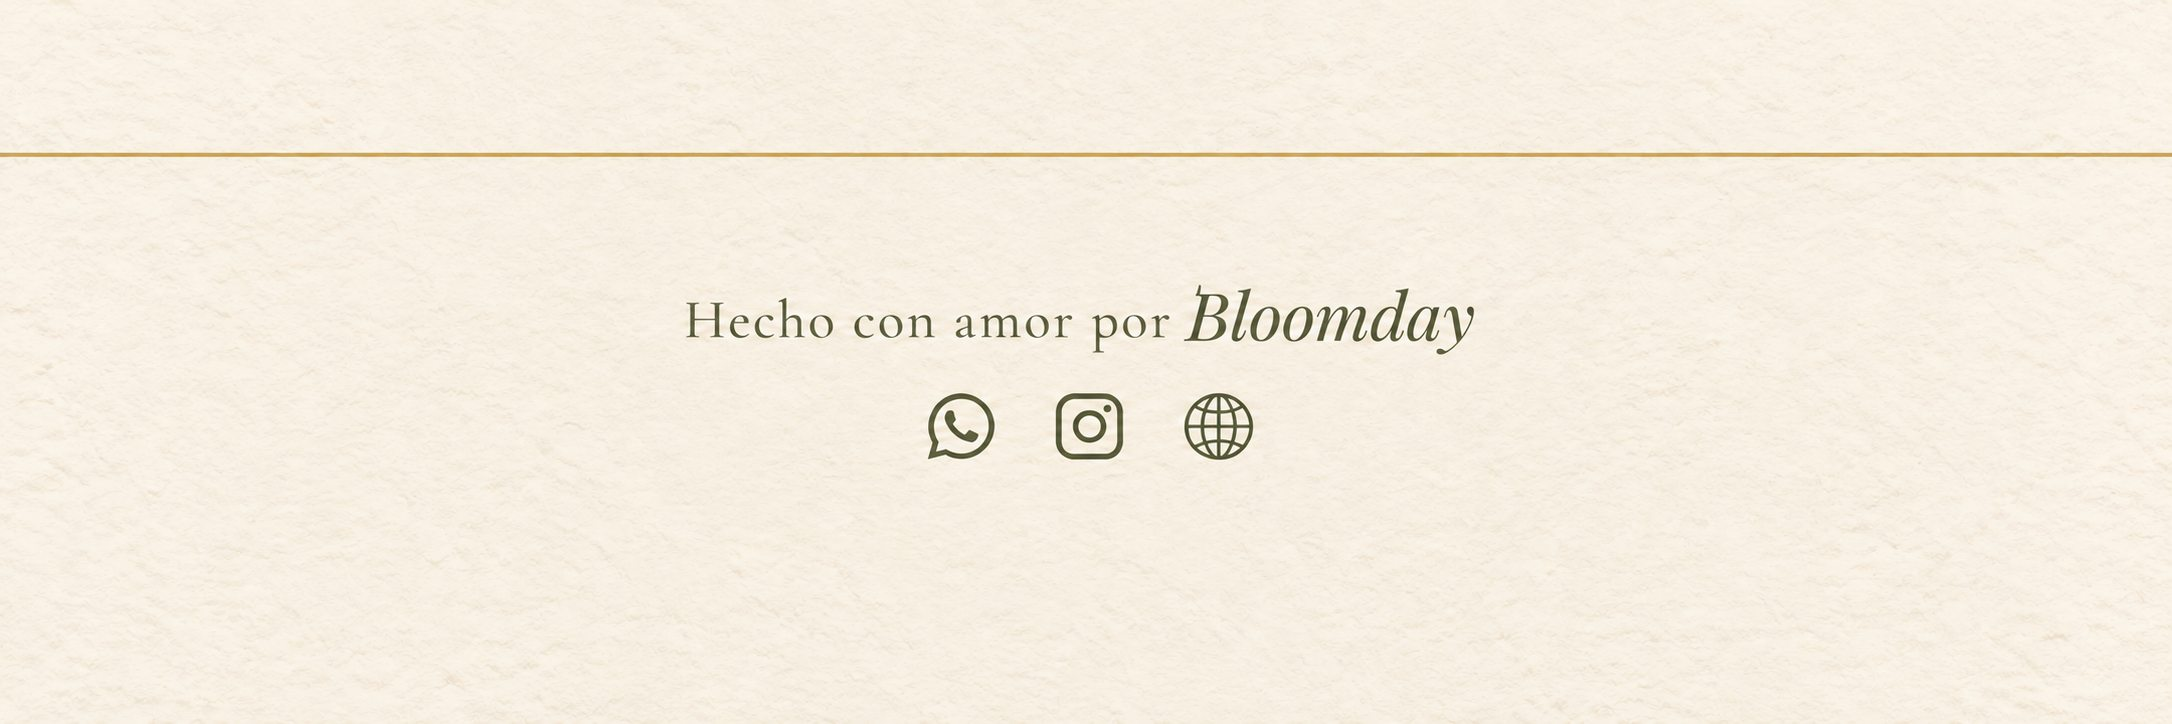
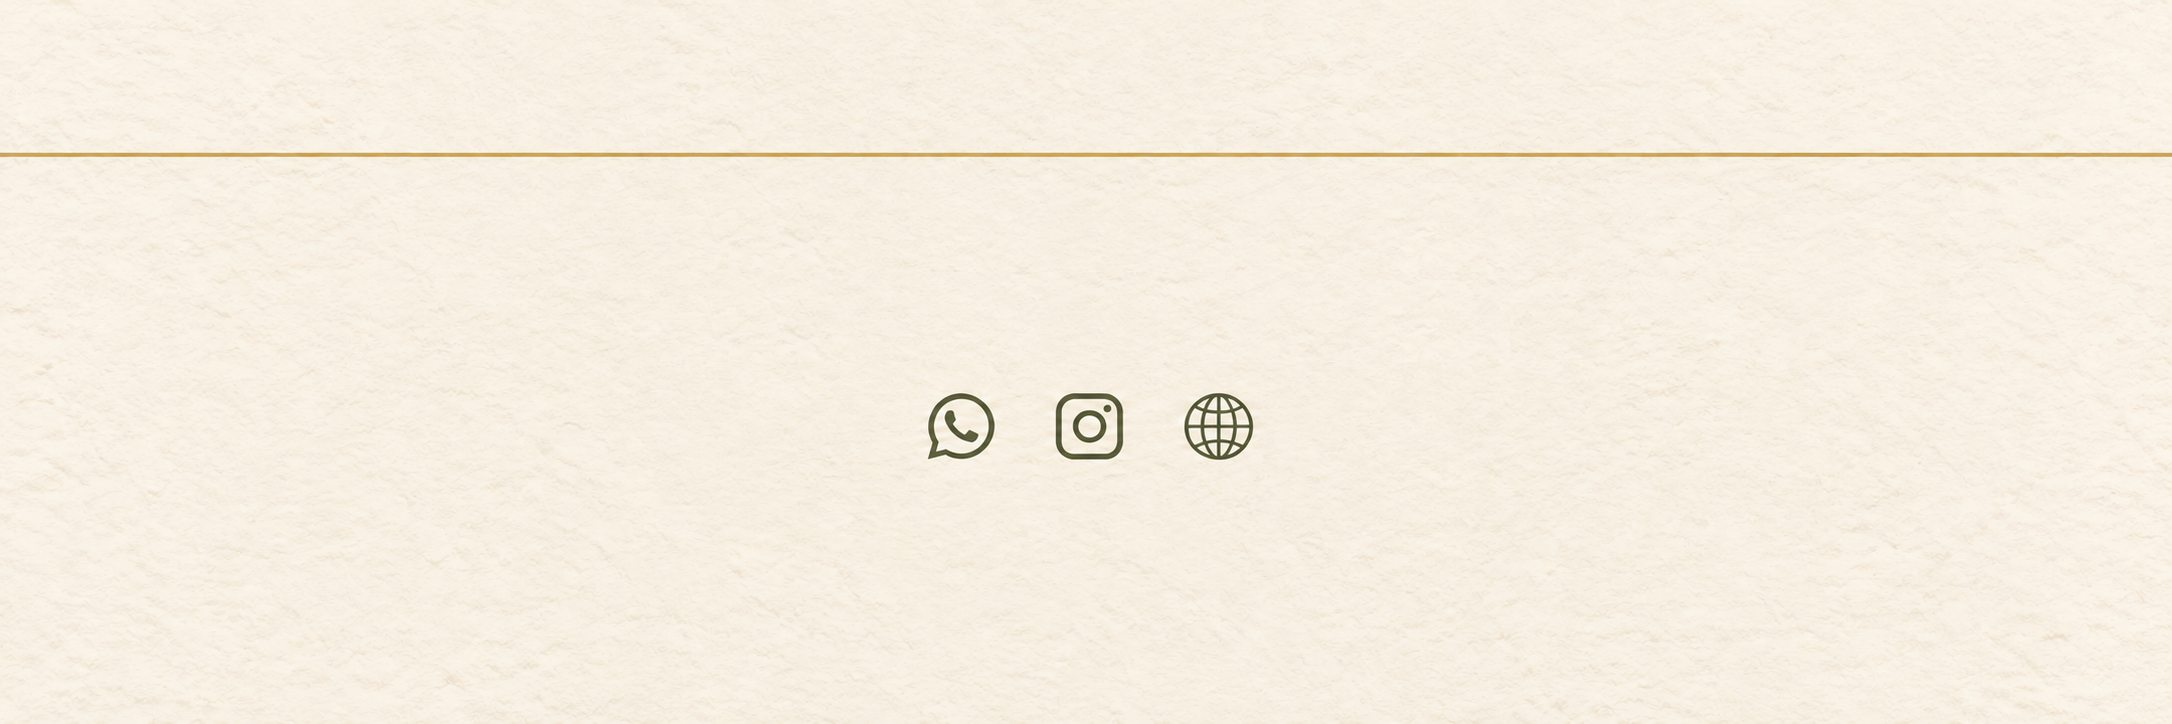
Footer Bloomdate con links, vista previa del link y mensaje

Changed region(s): [[0.3085, 0.395, 0.6786, 0.4862]]

diff --git a/index.html b/index.html
@@ -4,10 +4,16 @@
 <meta charset="utf-8">
 <meta name="viewport" content="width=device-width, initial-scale=1, viewport-fit=cover">
 <title>Lara &amp; Jonatan</title>
-<meta name="description" content="Lara & Jonatan · 19 de diciembre de 2026 · ¡Nos casamos!">
-<meta property="og:title" content="Lara & Jonatan · Nos casamos">
-<meta property="og:description" content="19 de diciembre de 2026">
-<meta property="og:image" content="assets/01-portada.jpg">
+<meta name="description" content="Queremos compartir con vos uno de los días más felices de nuestras vidas. Te esperamos el 19 de diciembre de 2026 🤍">
+<meta property="og:type" content="website">
+<meta property="og:url" content="https://nadulog.github.io/Boda-Lara-y-Jonatan-/">
+<meta property="og:title" content="Lara & Jonatan · ¡Nos casamos!">
+<meta property="og:description" content="Queremos compartir con vos uno de los días más felices de nuestras vidas. Te esperamos el 19 de diciembre de 2026 🤍">
+<meta property="og:image" content="https://nadulog.github.io/Boda-Lara-y-Jonatan-/assets/og-preview.jpg">
+<meta property="og:image:width" content="1200">
+<meta property="og:image:height" content="480">
+<meta property="og:image:alt" content="Lara & Jonatan · 19 de diciembre de 2026">
+<meta name="twitter:card" content="summary_large_image">
 <meta name="theme-color" content="#4a5232">
 <link rel="preconnect" href="https://fonts.googleapis.com">
 <link rel="preconnect" href="https://fonts.gstatic.com" crossorigin>
@@ -78,6 +84,25 @@
   }
   /* En la imagen singular ("lugar reservado") la línea está recentrada: el hueco se corre 34px */
   .inv-pases.guest-places--singular { left: 32.5%; }
+
+  /* Firma del footer (el texto se borró de la imagen y va como texto) */
+  .firma {
+    position: absolute;
+    left: 0; right: 0;
+    top: 38.4%;
+    text-align: center;
+    line-height: 1;
+    font-size: 2.5cqw;
+    letter-spacing: .04em;
+    color: #4f5435;
+    white-space: nowrap;
+  }
+  .firma em {
+    font-style: italic;
+    font-weight: 500;
+    font-size: 1.42em;
+    letter-spacing: 0;
+  }
 
   /* Cuenta regresiva */
   .cd {
@@ -382,12 +407,13 @@
 
   <!-- Footer -->
   <footer class="pieza">
-    <img src="assets/12-footer.jpg" alt="Hecho con amor por Bloomday" loading="lazy">
-    <a class="hot" data-link="whatsapp" target="_blank" rel="noopener" aria-label="WhatsApp Bloomday"
+    <img src="assets/12-footer.jpg" alt="" loading="lazy">
+    <p class="firma">Hecho con amor por <em>Bloomdate</em></p>
+    <a class="hot" data-link="whatsapp" target="_blank" rel="noopener" aria-label="WhatsApp Bloomdate"
        style="left:41.8%; top:50%; width:4.8%; height:18%"></a>
-    <a class="hot" data-link="instagram" target="_blank" rel="noopener" aria-label="Instagram Bloomday"
+    <a class="hot" data-link="instagram" target="_blank" rel="noopener" aria-label="Instagram Bloomdate"
        style="left:47.7%; top:50%; width:4.8%; height:18%"></a>
-    <a class="hot" data-link="web" target="_blank" rel="noopener" aria-label="Web Bloomday"
+    <a class="hot" data-link="web" target="_blank" rel="noopener" aria-label="Web Bloomdate"
        style="left:53.7%; top:50%; width:4.8%; height:18%"></a>
   </footer>
 
@@ -424,9 +450,9 @@
     musica:      'https://open.spotify.com/playlist/33gY95I8ZwTGIs8Xq97PP7',
     bloomkeep:   'https://app.bloomkeep.site/boda-lara-jonatan',
     rsvp:        '#',  // se reemplaza por el link personalizado cuando llega ?invite=<token>
-    whatsapp:    '#',  // TODO: WhatsApp Bloomday
-    instagram:   '#',  // TODO: Instagram Bloomday
-    web:         '#'   // TODO: web Bloomday
+    whatsapp:    'https://wa.me/541140436324',
+    instagram:   'https://www.instagram.com/bloomdate.invitaciones/',
+    web:         'https://bloomdate-site.netlify.app/'
   };
 
   document.querySelectorAll('[data-link]').forEach(a => {
